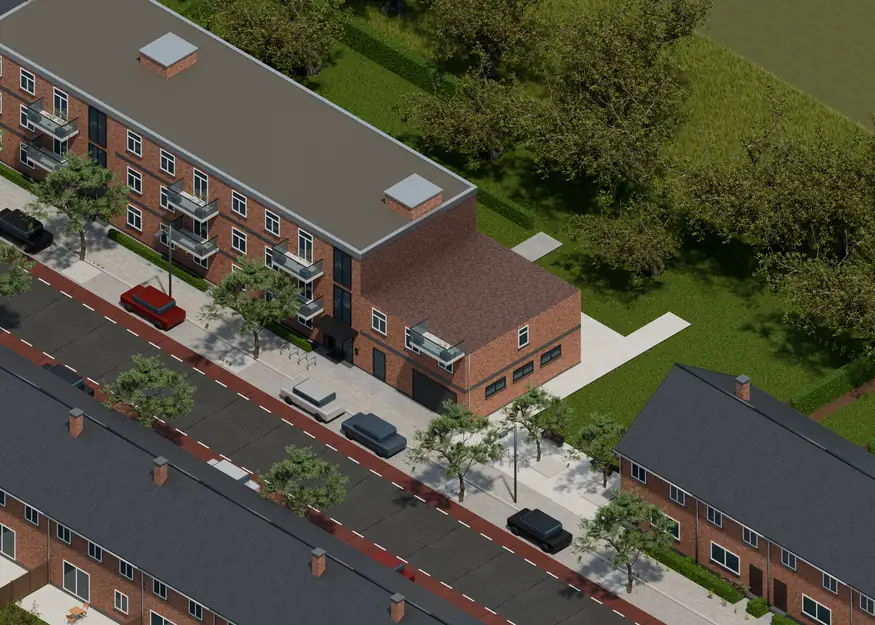
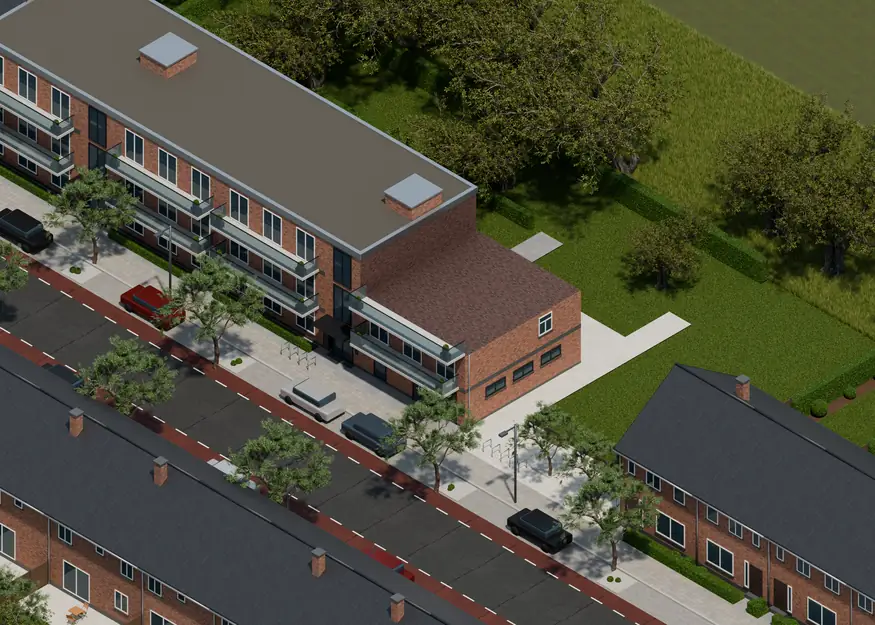
feat(simulator-3d): appartementsgebouw volgt het kolomraster en terras over de hele breedte
Na de merge met het interieur kiest het plan de ramen per kamer, op het
kolomraster van droogSimulator.ts. Het gebouw rond de unit volgt dat raster
nu ook. De onderste laag van de unit heeft raamdeuren naar een terras over
haar hele breedte, net als de appartementen eronder en ernaast. struik()
heeft sinds stap2 een breedte en geen Poly Haven-model meer.

diff --git a/scripts/simulator-3d/straat.py b/scripts/simulator-3d/straat.py
@@ -1464,7 +1464,7 @@ def balkon(x0, x1, yv, diep=1.5, naam="balkon"):
         for k in range(2):
             px = x0 + 0.5 + k * (x1 - x0 - 1.0)
             blok(naam + "-bak", px - 0.3, px + 0.3, yv, yv + 0.4, F + diep - 0.55, F + diep - 0.15, M["arduin"])
-            plaats(random.choice(STRUIKEN), px, F + diep - 0.35, random.uniform(0.6, 0.9), y=yv + 0.38)
+            struik(px, F + diep - 0.35, random.uniform(0.5, 0.75), 0.5).location.z += yv + 0.38  # Blender z = hoogte
 
 
 def unit_gevel(x0, balkons=True):
@@ -1653,7 +1653,7 @@ def omgeving_appartement():
         if not ROUW:
             plaats(BOMEN[3], vx, pz_, random.uniform(7.0, 8.5))
             for k in range(2):
-                struik(vx + random.uniform(-0.5, 0.5), pz_ + random.uniform(-0.4, 0.4), random.uniform(0.3, 0.5))
+                struik(vx + random.uniform(-0.5, 0.5), pz_ + random.uniform(-0.4, 0.4), random.uniform(0.3, 0.5), 0.5)
 
     for vx, wat in vakken:
         if not in_beeld(vx - 3, vx + 3, pz - 2, pz + 2, 10):
